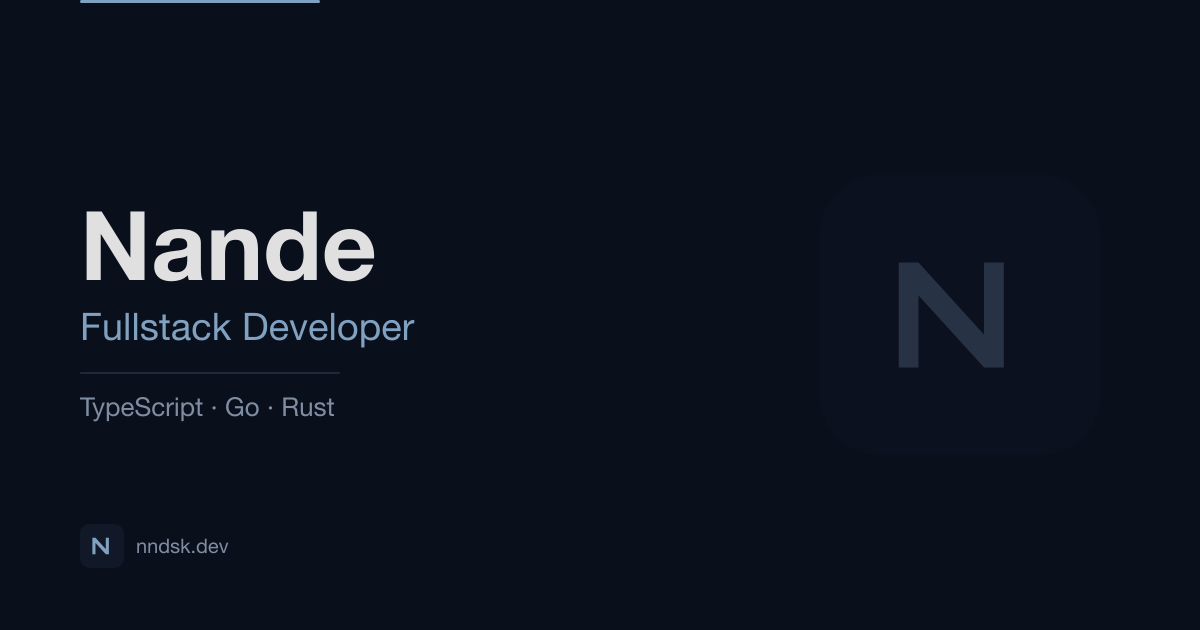
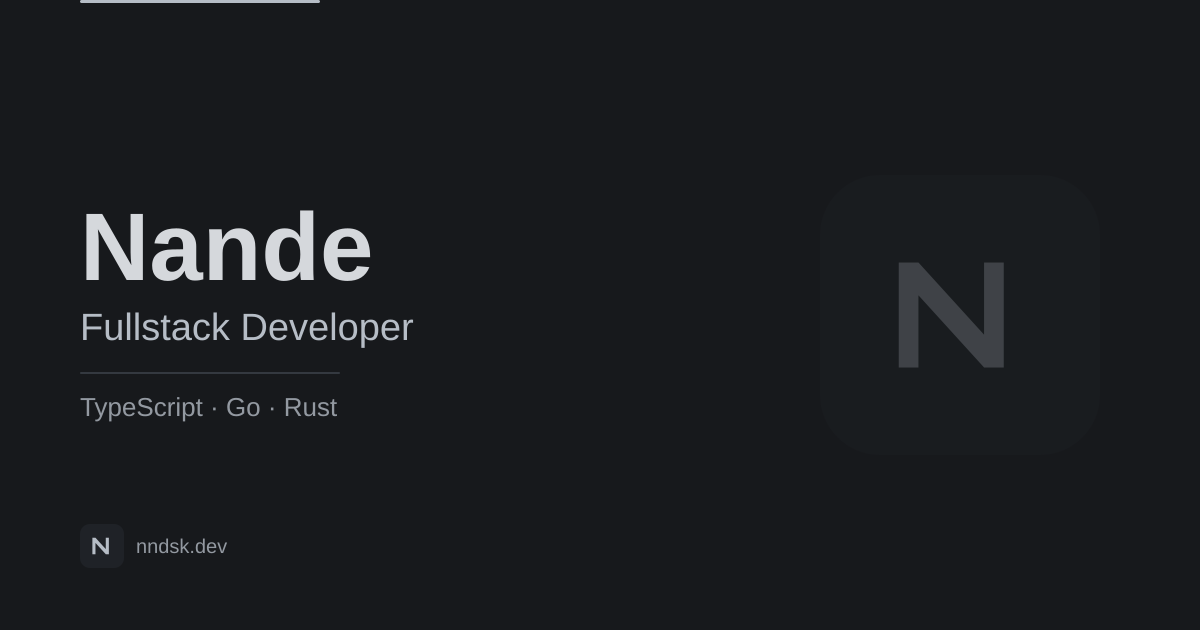
Implement Dark Graphite theme per DARK_GRAPHITE_PLAN.md
Apply graphite tokens, remove template chrome (glass nav, bounce, lift/zoom),
update components and brand assets; copy edits limited to plan allowlist.

diff --git a/src/styles/global.css b/src/styles/global.css
@@ -24,16 +24,15 @@
 }
 
 @theme {
-  /* Colores personalizados */
-  --color-background: #0a0f1c;
-  --color-foreground: #e0e0e0;
-  --color-accent: #81a1c1;
-  --color-accent-hover: #88c0d0;
-  --color-muted: #7f8da3;
-  --color-card: #111827;
-  --color-border: #1e293b;
+  --color-background: #17191c;
+  --color-foreground: #d5d8dc;
+  --color-accent: #b6bdc6;
+  --color-accent-hover: #c8ced6;
+  --color-muted: #9399a1;
+  --color-card: #1f2227;
+  --color-border: #343940;
+  --color-border-strong: #4a5058;
 
-  /* Contenedores - necesarios para max-w-* */
   --container-sm: 640px;
   --container-md: 768px;
   --container-lg: 1024px;
@@ -55,8 +54,8 @@
   }
 
   body {
-    background-color: #0a0f1c;
-    color: #e0e0e0;
+    background-color: var(--color-background);
+    color: var(--color-foreground);
     font-family:
       'Inter',
       -apple-system,
@@ -73,8 +72,8 @@
   }
 
   ::selection {
-    background-color: rgba(129, 161, 193, 0.3);
-    color: #e0e0e0;
+    background-color: color-mix(in srgb, var(--color-accent) 28%, transparent);
+    color: var(--color-foreground);
   }
 }
 
@@ -85,16 +84,16 @@
   }
 
   ::-webkit-scrollbar-track {
-    background: #0a0f1c;
+    background: var(--color-background);
   }
 
   ::-webkit-scrollbar-thumb {
-    background: #3b3b3b;
-    border-radius: 4px;
+    background: #3f454d;
+    border-radius: 0;
   }
 
   ::-webkit-scrollbar-thumb:hover {
-    background: #7f8da3;
+    background: var(--color-muted);
   }
 }
 
@@ -106,7 +105,7 @@
   background: var(--color-accent);
   color: var(--color-background);
   padding: 8px 16px;
-  border-radius: 4px;
+  border-radius: 0;
   text-decoration: none;
   font-weight: 600;
   z-index: 9999;
@@ -122,10 +121,10 @@
 /* Scroll reveal — entrada suave al entrar al viewport */
 [data-reveal] {
   opacity: 0;
-  transform: translateY(20px);
+  transform: translateY(12px);
   transition:
-    opacity 0.5s ease-out,
-    transform 0.5s ease-out;
+    opacity 0.35s ease-out,
+    transform 0.35s ease-out;
   transition-delay: var(--reveal-delay, 0ms);
   will-change: opacity, transform;
 }
@@ -139,7 +138,7 @@
 @keyframes fadeInUp {
   from {
     opacity: 0;
-    transform: translateY(16px);
+    transform: translateY(10px);
   }
   to {
     opacity: 1;
@@ -149,7 +148,7 @@
 
 [data-hero] {
   opacity: 0;
-  animation: fadeInUp 0.6s ease-out forwards;
+  animation: fadeInUp 0.4s ease-out forwards;
   animation-delay: var(--hero-delay, 0ms);
 }
 

diff --git a/src/utils/constants.ts b/src/utils/constants.ts
@@ -58,10 +58,12 @@ export const SITE_METADATA = {
 
 // Configuración de estilos
 export const THEME_COLORS = {
-  background: '#0a0f1c',
-  foreground: '#e0e0e0',
-  accent: '#81a1c1',
-  muted: '#616e88',
-  card: '#111827',
-  border: '#1e293b',
+  background: '#17191c',
+  foreground: '#d5d8dc',
+  accent: '#b6bdc6',
+  accentHover: '#c8ced6',
+  muted: '#9399a1',
+  card: '#1f2227',
+  border: '#343940',
+  borderStrong: '#4a5058',
 };
